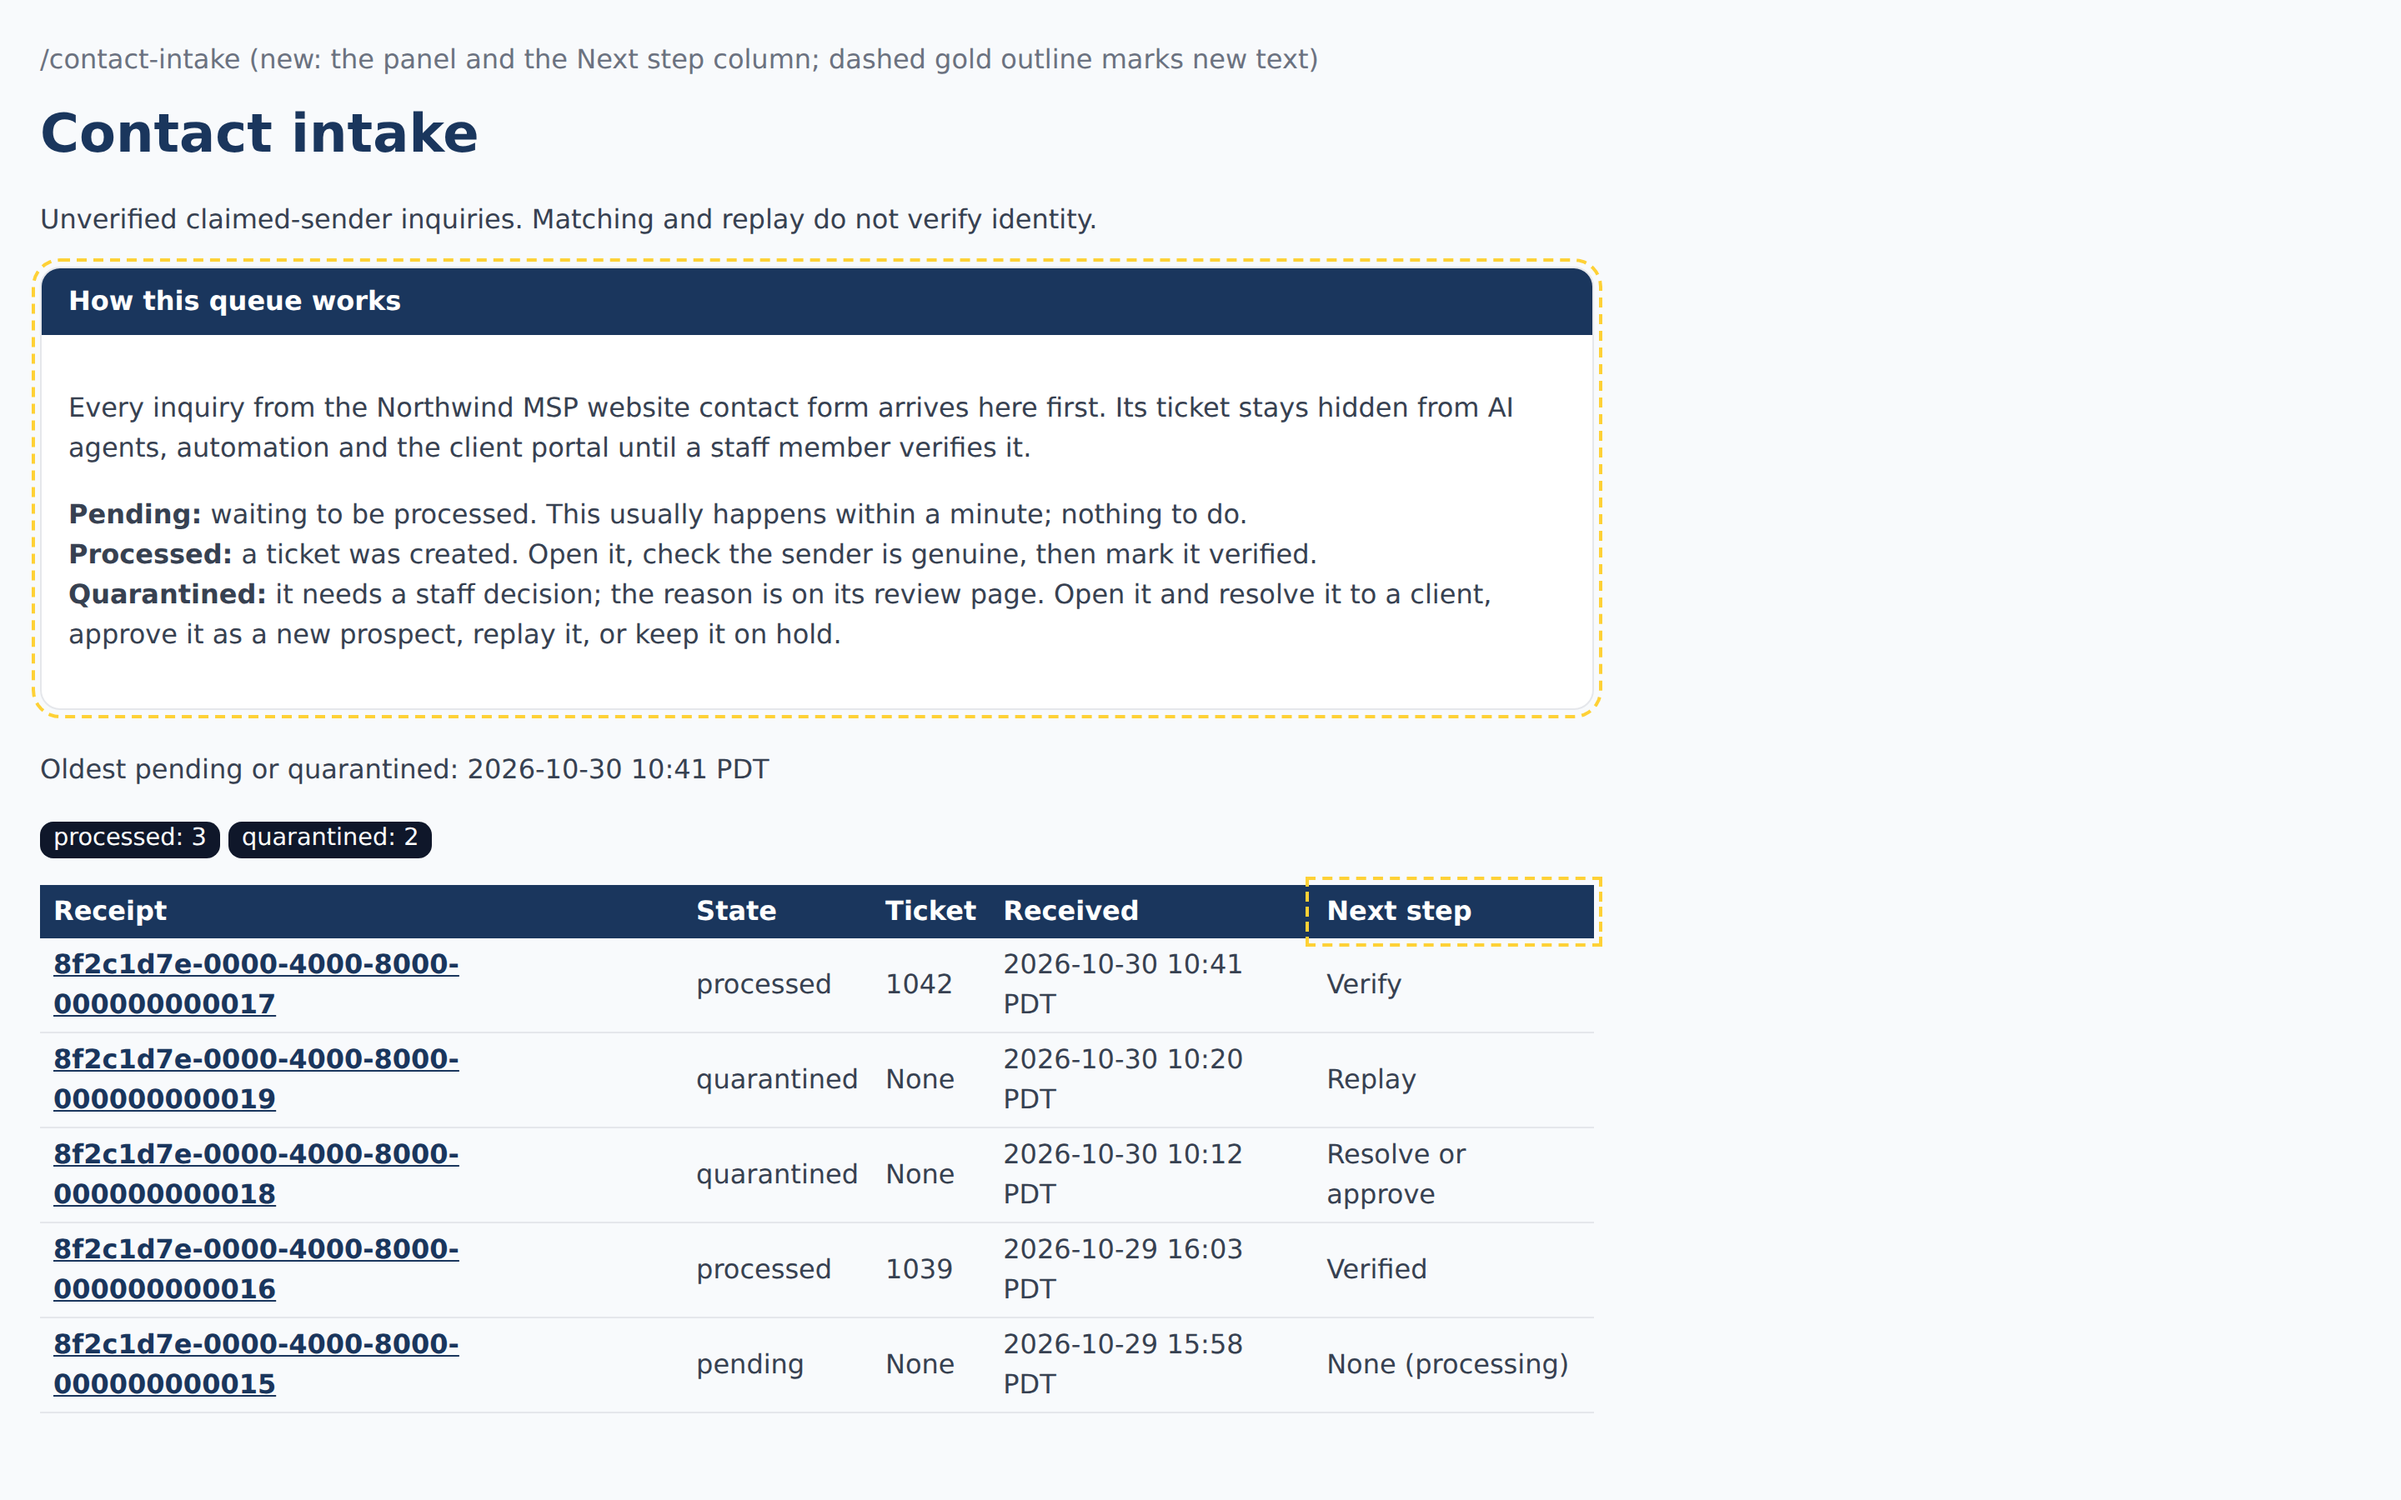
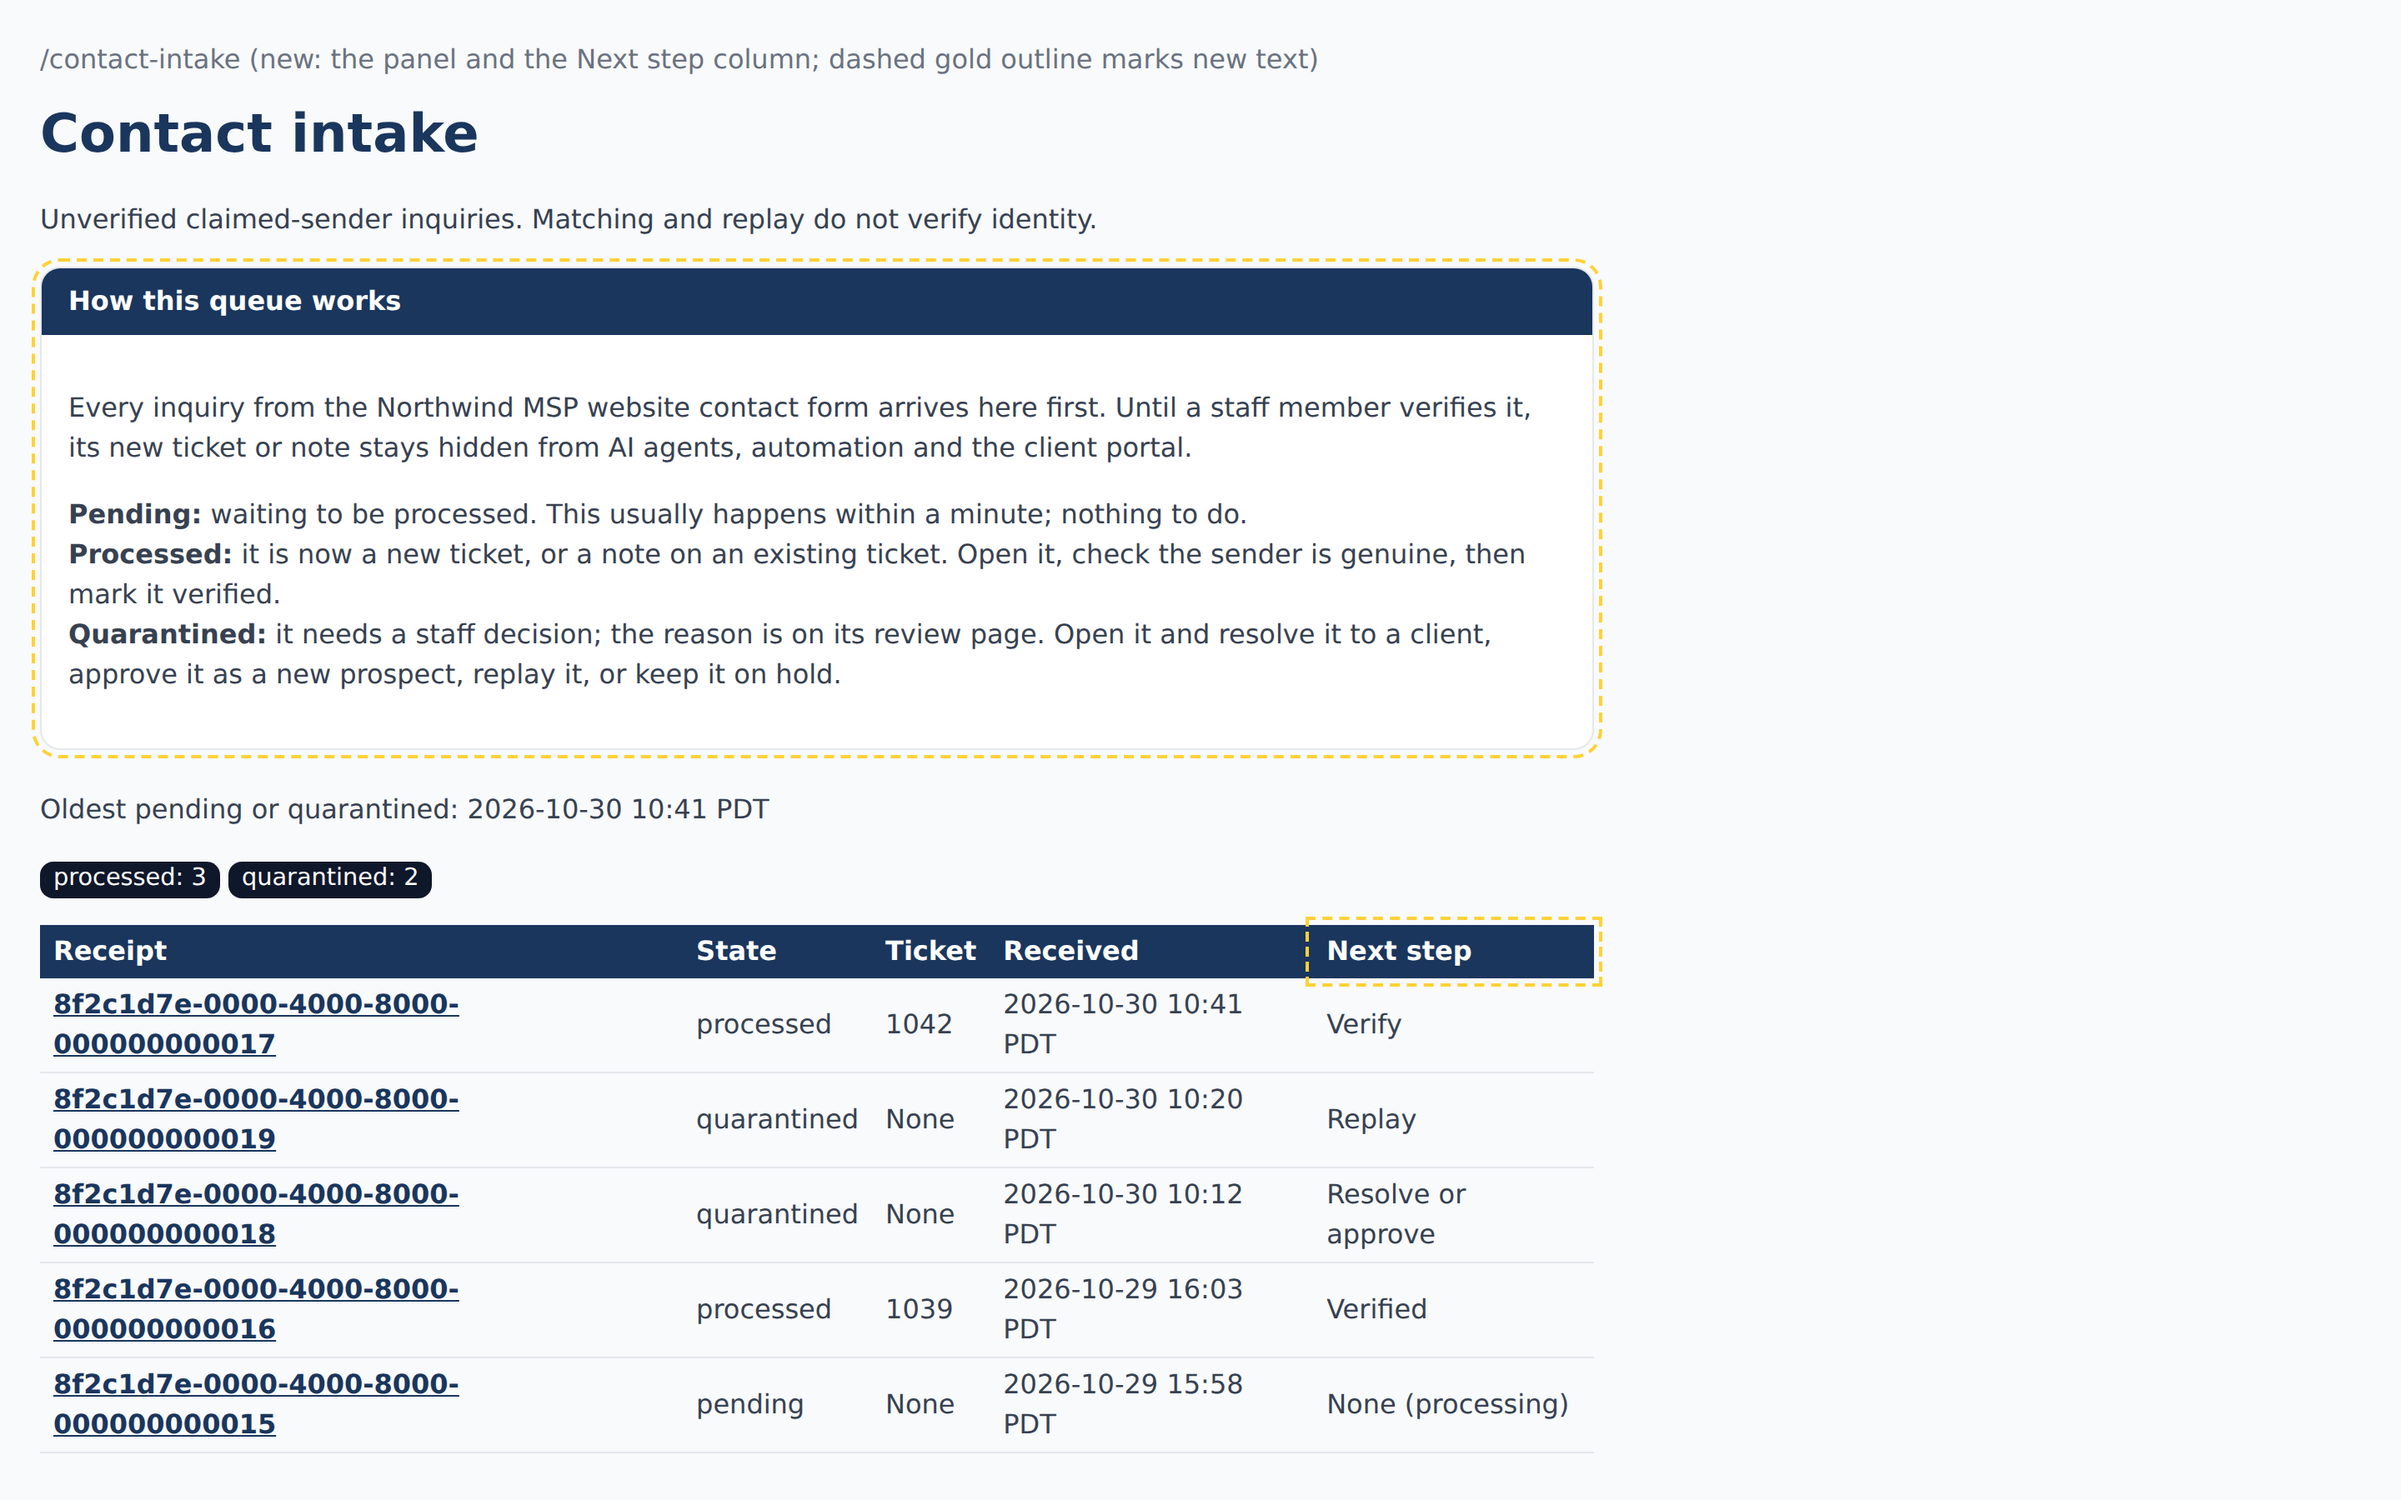
contact intake r1 rework: Jeeves's queue-panel lines verbatim (B), docs-only fix of the Alerts Hub mockup caption (JyBDeHPz, ruling 6ae4f914)

diff --git a/design/mockups/contact-intake/settings-and-alerts.html b/design/mockups/contact-intake/settings-and-alerts.html
@@ -5,7 +5,7 @@
 <select><option>Default (the active staff user named Chet)</option><option>Alex Example (admin)</option><option>Sam Sample (tech)</option></select>
 <div class="muted small" style="margin-top: var(--psa-spacing-xs)">New web form tickets are assigned to this person. They also get the alert email for any web form inquiry whose ticket has no assignee. Only active admin and tech staff can be chosen.</div>
 <button type="button">Save Contact Intake</button></div></article>
-<p class="caption">Settings &gt; Alerts Hub &gt; route event types (two new types, routable, off until a route subscribes)</p>
+<p class="caption">Settings &gt; Alerts Hub &gt; route event types (two new types, routable; delivered to any route set to all event types or subscribed to them)</p>
 <article class="card new" style="max-width:640px"><div class="card-body">
 <p><code>intake.webform_received</code>: <strong>Web form inquiry received</strong><br><span class="muted small">Sent when a web form inquiry is added to a ticket (new or existing), before anyone verifies it. Carries only the submission id, ticket id, age and review link.</span></p>
 <p><code>intake.webform_verified</code>: <strong>Web form inquiry verified</strong><br><span class="muted small">Sent when a staff member verifies a web form inquiry and its ticket becomes visible to automation.</span></p>

diff --git a/design/mockups/contact-intake/queue.html b/design/mockups/contact-intake/queue.html
@@ -3,9 +3,9 @@
 <h1>Contact intake</h1>
 <p>Unverified claimed-sender inquiries. Matching and replay do not verify identity.</p>
 <article class="card new"><header class="card-header">How this queue works</header><div class="card-body">
-<p>Every inquiry from the Northwind MSP website contact form arrives here first.</p>
+<p>Every inquiry from the Northwind MSP website contact form arrives here first. Until a staff member verifies it, its new ticket or note stays hidden from AI agents, automation and the client portal.</p>
 <p><strong>Pending:</strong> waiting to be processed. This usually happens within a minute; nothing to do.<br>
-<strong>Processed:</strong> Open it, check the sender is genuine, then mark it verified.<br>
+<strong>Processed:</strong> it is now a new ticket, or a note on an existing ticket. Open it, check the sender is genuine, then mark it verified.<br>
 <strong>Quarantined:</strong> it needs a staff decision; the reason is on its review page. Open it and resolve it to a client, approve it as a new prospect, replay it, or keep it on hold.</p>
 </div></article>
 <p>Oldest pending or quarantined: 2026-10-30 10:41 PDT</p>

diff --git a/tests/Feature/ContactIntake/IntakeAlertsTest.php b/tests/Feature/ContactIntake/IntakeAlertsTest.php
@@ -424,10 +424,10 @@ class IntakeAlertsTest extends TestCase
         $held->update(['state' => 'quarantined', 'exception_reason' => 'staff_hold']);
         $page = $this->actingAs($staff)->get(route('contact-intake.index'))->assertOk();
         $page->assertSee('How this queue works')
-            ->assertSee('Every inquiry from the Northwind MSP website contact form arrives here first.')
-            ->assertSee('Open it, check the sender is genuine, then mark it verified.')
-            // r1 diff:2: both claims are false for a follow-up note on an existing, possibly visible, ticket.
-            ->assertDontSee('stays hidden')->assertDontSee('a ticket was created')
+            ->assertSee('Every inquiry from the Northwind MSP website contact form arrives here first. Until a staff member verifies it, its new ticket or note stays hidden from AI agents, automation and the client portal.')
+            ->assertSee('it is now a new ticket, or a note on an existing ticket. Open it, check the sender is genuine, then mark it verified.')
+            // r1 diff:2: the r0 claims were false for a follow-up note on an existing, possibly visible, ticket.
+            ->assertDontSee('Its ticket stays hidden')->assertDontSee('a ticket was created')
             ->assertSee('waiting to be processed. This usually happens within a minute; nothing to do.')
             ->assertSee('it needs a staff decision; the reason is on its review page. Open it and resolve it to a client, approve it as a new prospect, replay it, or keep it on hold.')
             ->assertSee('Next step');

diff --git a/resources/views/contact-intake/index.blade.php b/resources/views/contact-intake/index.blade.php
@@ -7,9 +7,9 @@
 <div class="card card-static shadow-sm mb-3" data-intake-guide>
 <div class="card-header">How this queue works</div>
 <div class="card-body">
-<p>Every inquiry from the {{ $companyName }} website contact form arrives here first.</p>
+<p>Every inquiry from the {{ $companyName }} website contact form arrives here first. Until a staff member verifies it, its new ticket or note stays hidden from AI agents, automation and the client portal.</p>
 <p class="mb-0"><strong>Pending:</strong> waiting to be processed. This usually happens within a minute; nothing to do.<br>
-<strong>Processed:</strong> Open it, check the sender is genuine, then mark it verified.<br>
+<strong>Processed:</strong> it is now a new ticket, or a note on an existing ticket. Open it, check the sender is genuine, then mark it verified.<br>
 <strong>Quarantined:</strong> it needs a staff decision; the reason is on its review page. Open it and resolve it to a client, approve it as a new prospect, replay it, or keep it on hold.</p>
 </div>
 </div>
